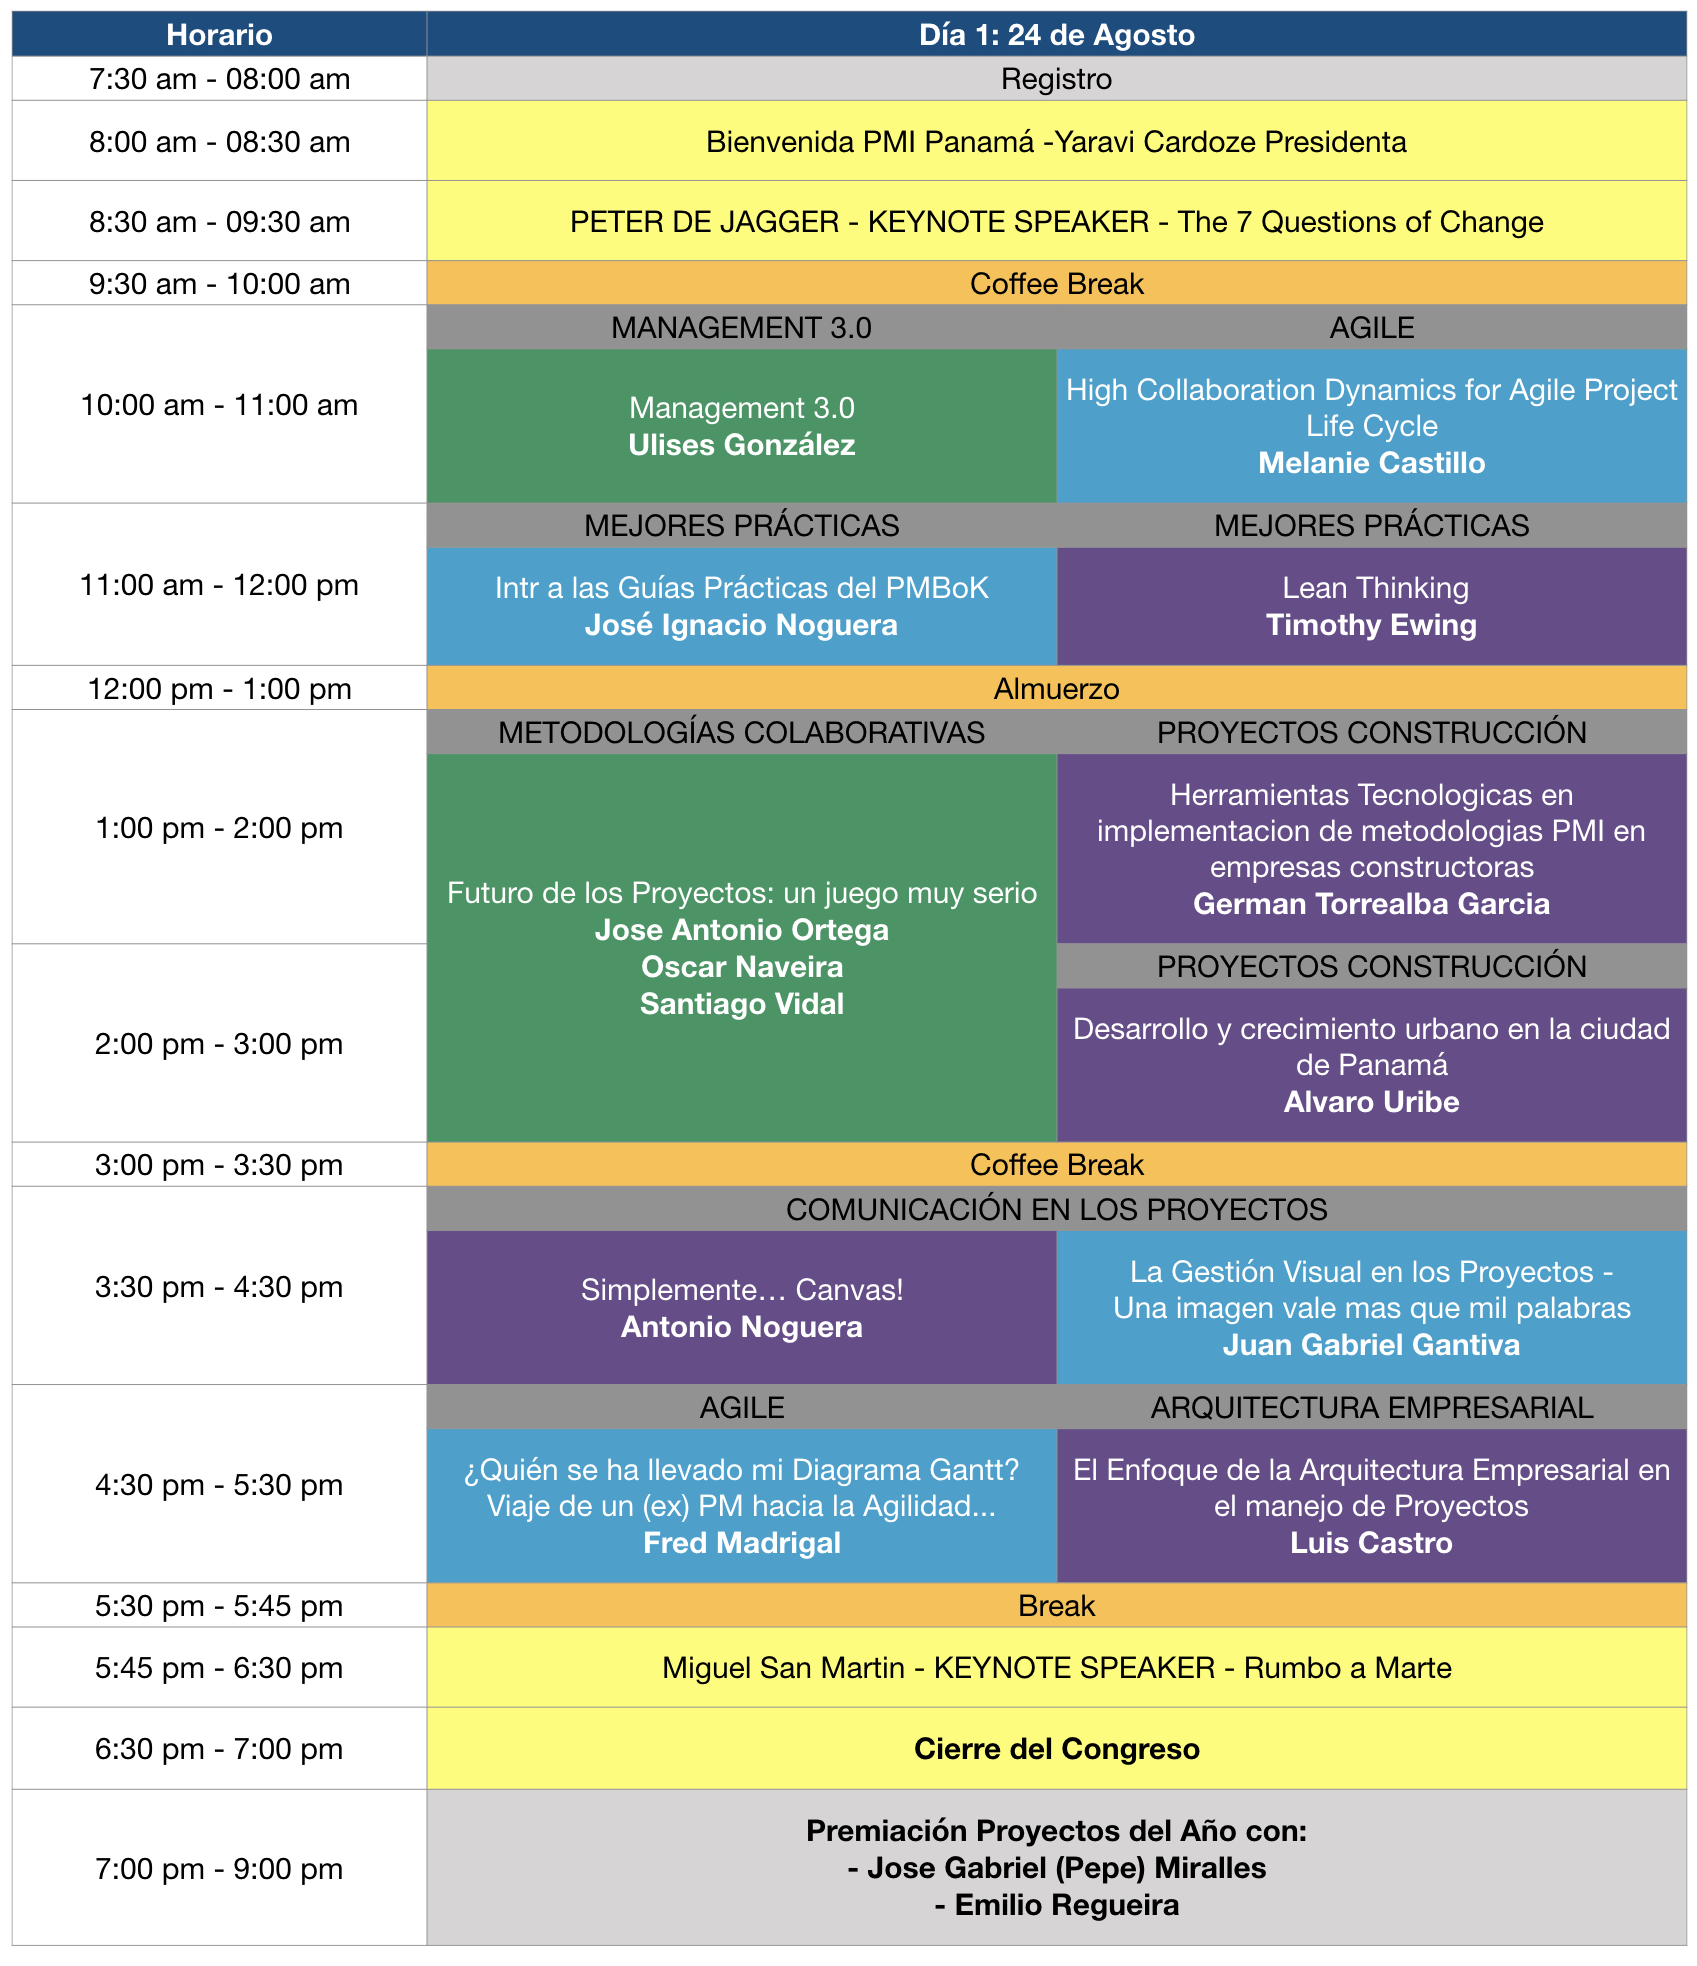
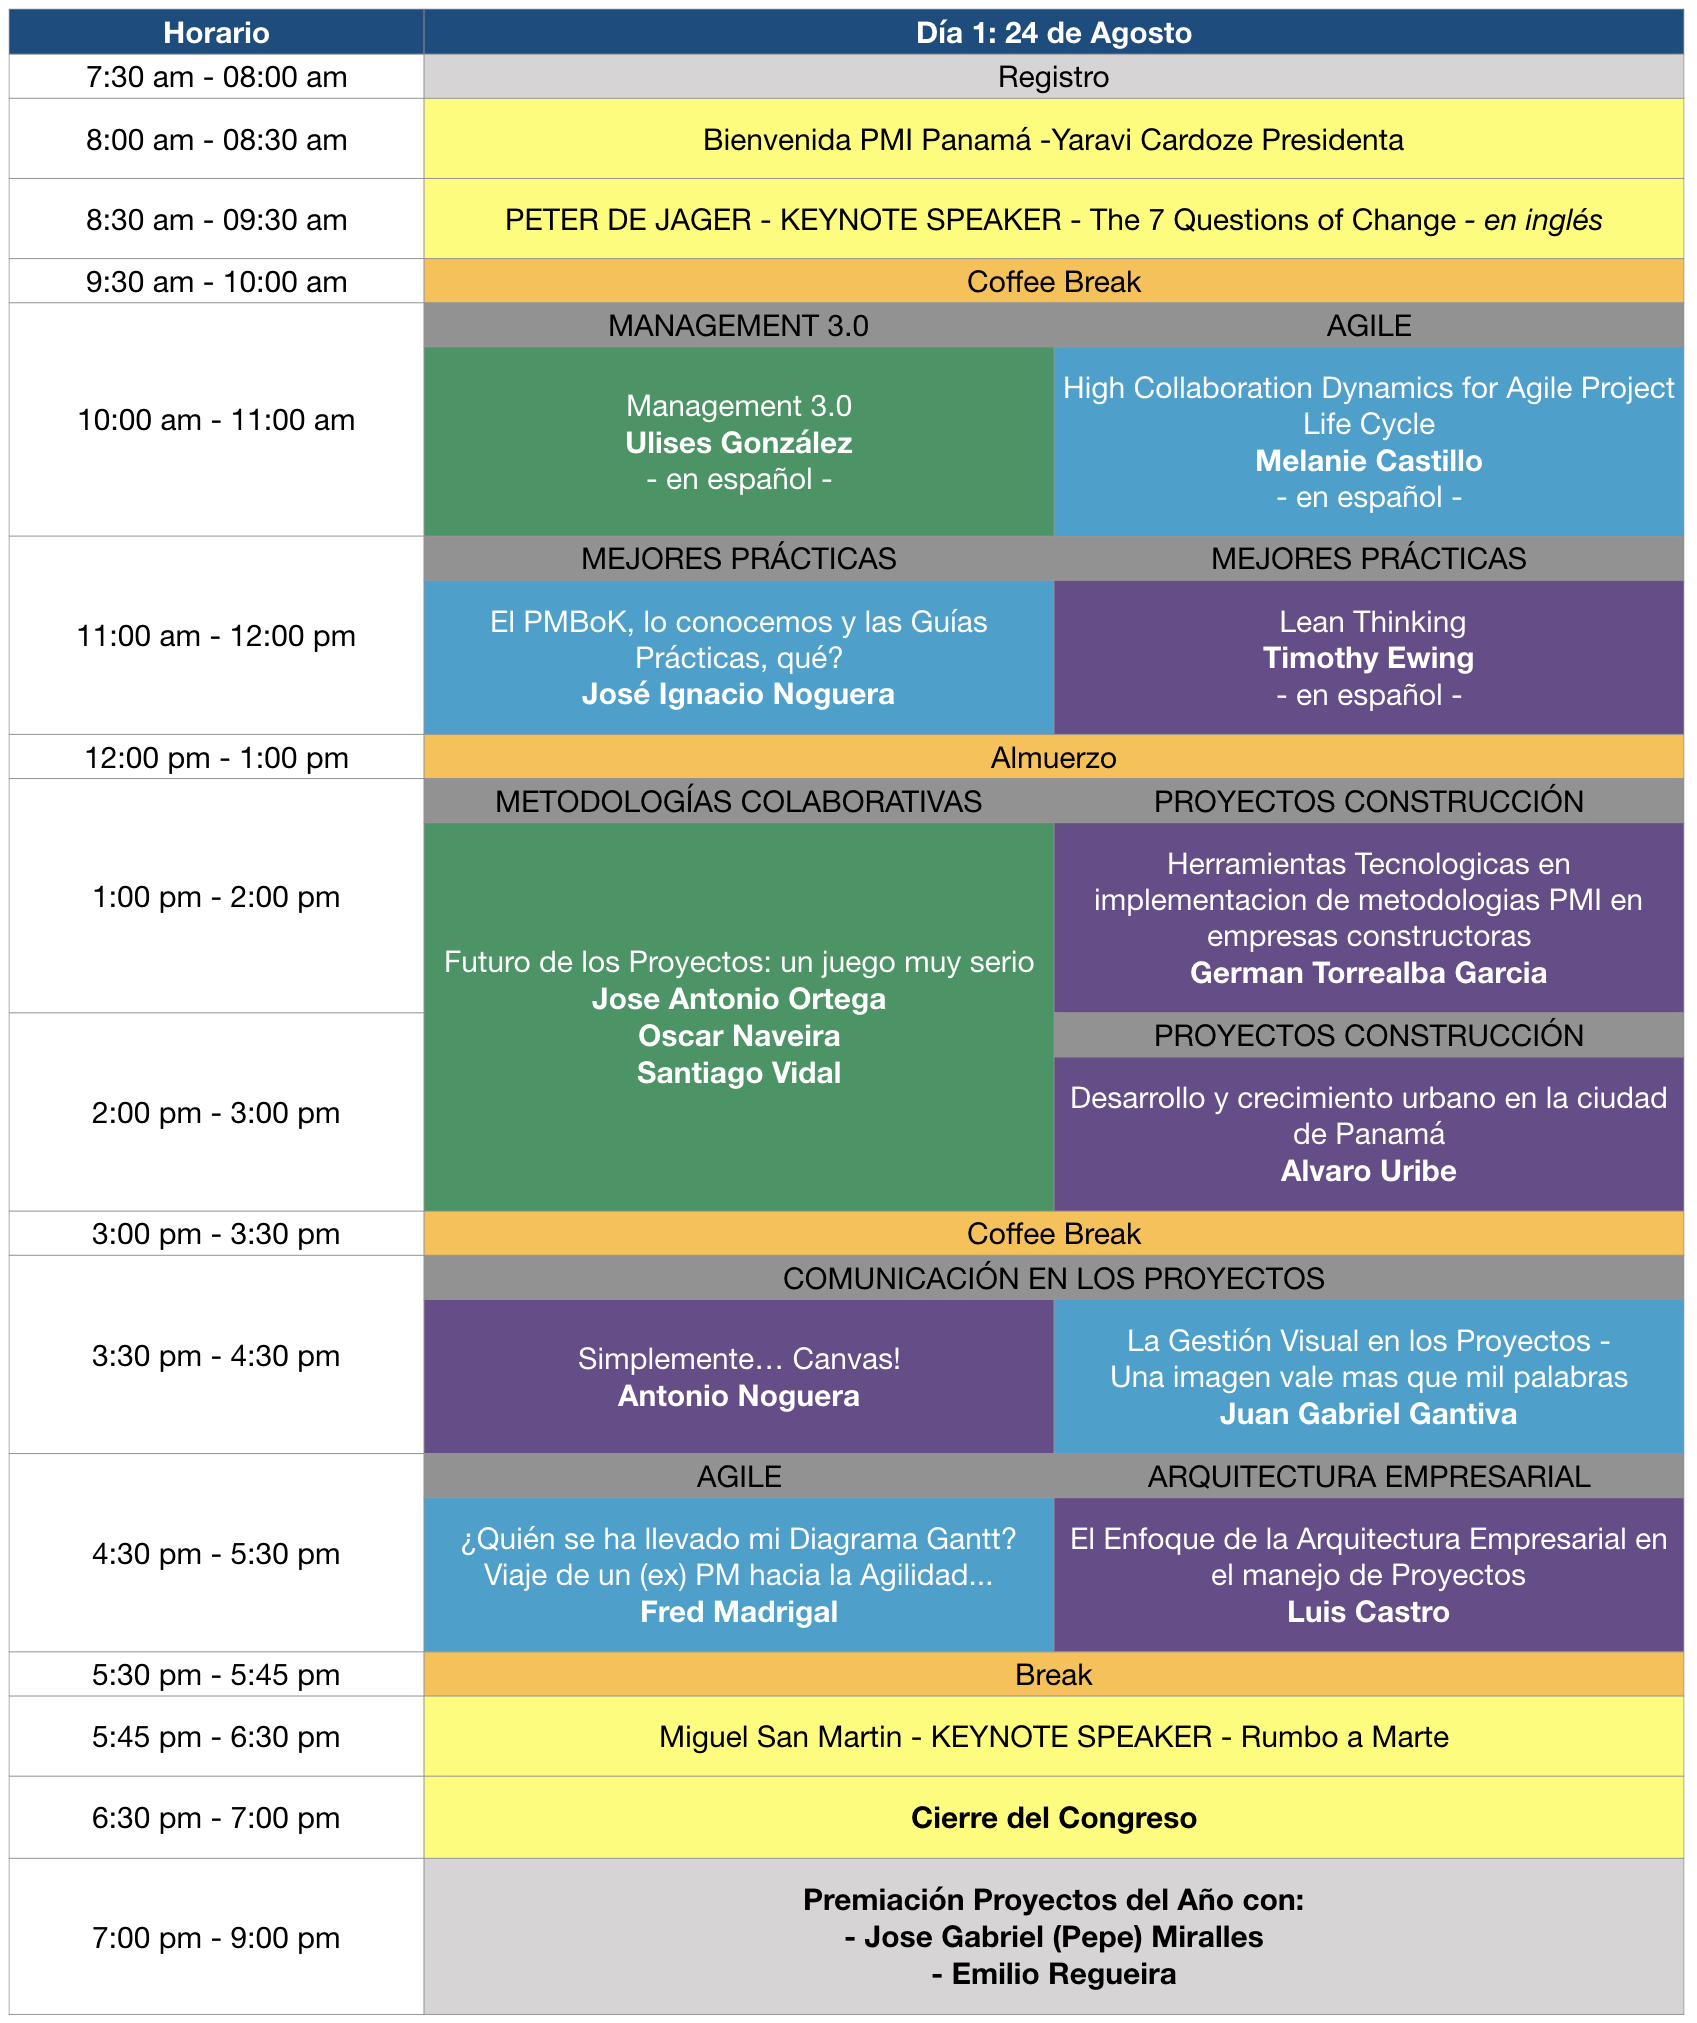
Correcciones, actualizaciones de agenda

diff --git a/agendaInteractiva/dia2.html b/agendaInteractiva/dia2.html
@@ -79,7 +79,7 @@
 					<li class="single-event" data-taller="08:00 - 18:00" data-start="08:00" data-end="13:00" data-content="t_high_col" data-event="event-tec">
 						<!-- TEGP para o día 2 as variáveis data-start e data-end controlam apenas o tamanho da caixa, a exibição é feita pelo valor de data-taller, para isso tive que copiar o .js para main2.js -->
 						<a href="#0">
-							<em class="event-name">Agile: High Collaboration Dynamics for Agile Project Life Cycle</em>
+							<em class="event-name">Agile: High Collaboration Dynamics for Agile Project Life Cycle <em class="aboutexpo">- en español</em></em>
 						</a>
 					</li>
 
@@ -188,7 +188,7 @@
 				<ul>
 					<li class="single-event" data-taller="08:00 - 18:00" data-start="08:00" data-end="13:00" data-content="t_mgnt30" data-event="event-lid">
 						<a href="#0">
-							<em class="event-name">Management 3.0</em>
+							<em class="event-name">Management 3.0 <em class="aboutexpo">- en español</em></em>
 						</a>
 					</li>
 
@@ -225,7 +225,7 @@
 				<ul>
 					<li class="single-event" data-taller="08:00 - 12:30" data-start="08:00" data-end="10:20" data-content="t_desthink" data-event="event-lid">
 						<a href="#0">
-							<em class="event-name">Metodologías Colaborativas: Design Thinking Express</em>
+							<em class="event-name">Metodologías Colaborativas: Design Thinking Express <em class="aboutexpo">- en español</em></em>
 						</a>
 					</li>
 
@@ -269,13 +269,13 @@
 
 					<li class="single-event" data-taller="13:30 - 15:30" data-start="10:25" data-end="11:45" data-content="t_bimmgnt" data-event="event-est">
 						<a href="#0">
-							<em class="event-name">Sesión 3 - Lean Construction & The Last Planner</em>
+							<em class="event-name">Sesión 3 - Lean Construction & The Last Planner <em class="aboutexpo">- en español</em></em>
 						</a>
 					</li>
 
 					<li class="single-event" data-taller="16:00 - 18:00" data-start="11:47" data-end="13:00" data-content="t_bimmgnt" data-event="event-est">
 						<a href="#0">
-							<em class="event-name">Sesión 3 - Lean Construction & The Last Planner</em>
+							<em class="event-name">Sesión 3 - Lean Construction & The Last Planner <em class="aboutexpo">- en español</em></em>
 						</a>
 					</li>
 

diff --git a/agendaInteractiva/dia1.html b/agendaInteractiva/dia1.html
@@ -104,7 +104,7 @@
 
 					<li class="single-event" data-start="08:30" data-end="09:30" data-content="c_keynote_7questionschange" data-event="event-key">
 						<a href="#0">
-							<em class="event-name">PETER DE JAGGER - KEYNOTE SPEAKER - The 7 Questions of Change <em class="aboutexpo">- en inglés</em></em>
+							<em class="event-name">PETER DE JAGER - KEYNOTE SPEAKER - The 7 Questions of Change <em class="aboutexpo">- en inglés</em></em>
 						</a>
 					</li>
 
@@ -114,7 +114,7 @@
 
 					<li class="single-event" data-start="10:00" data-end="11:00" data-content="c_mgnt30" data-event="event-lid">
 				<a href="#0">
-					<em class="event-name">Management 3.0 (Ulises González)</em>
+					<em class="event-name">Management 3.0 (Ulises González) <em class="aboutexpo">- en español</em></em>
 						</a>
 					</li>
 
@@ -189,7 +189,7 @@
 
 					<li class="single-event" data-start="08:30" data-end="09:30" data-content="c_keynote_7questionschange" data-event="event-key">
 						<a href="#0">
-							<em class="event-name hidden">PETER DE JAGGER - KEYNOTE SPEAKER - The 7 Questions of Change <em class="aboutexpo">- en inglés</em></em>
+							<em class="event-name hidden">PETER DE JAGER - KEYNOTE SPEAKER - The 7 Questions of Change <em class="aboutexpo">- en inglés</em></em>
 						</a>
 					</li>
 
@@ -199,13 +199,13 @@
 
 					<li class="single-event" data-start="10:00" data-end="11:00" data-content="c_high_col" data-event="event-tec">
 						<a href="#0">
-							<em class="event-name">High Collaboration Dynamics for Agile Project Life Cycle (Melanie Castillo)</em>
+							<em class="event-name">High Collaboration Dynamics for Agile Project Life Cycle (Melanie Castillo) <em class="aboutexpo">- en español</em></em>
 						</a>
 					</li>
 
 					<li class="single-event" data-start="11:00" data-end="12:00" data-content="c_leanthink" data-event="event-est">
 						<a href="#0">
-							<em class="event-name">Lean Thinking (Timothy Ewing)</em>
+							<em class="event-name">Lean Thinking (Timothy Ewing) <em class="aboutexpo">- en español</em></em>
 						</a>
 					</li>
 

diff --git a/index.html b/index.html
@@ -113,8 +113,8 @@
         </div>
         <div class="col-md-4">
           <div class="testimonial-item mx-auto mb-5 mb-lg-0">
-            <img class="img-fluid rounded-circle mb-3" src="img/expositores/PetterDeJagger.jpg" alt="Petter de Jagger">
-            <h5>Petter de Jagger</h5>
+            <img class="img-fluid rounded-circle mb-3" src="img/expositores/PetterDeJagger.jpg" alt="Petter de Jager">
+            <h5>Petter de Jager</h5>
             <p class="font-weight-light mb-0">Expositor, escritor y consultor en temas relativos a la Asimilación Racional del Futuro</p>
           </div>
         </div>
